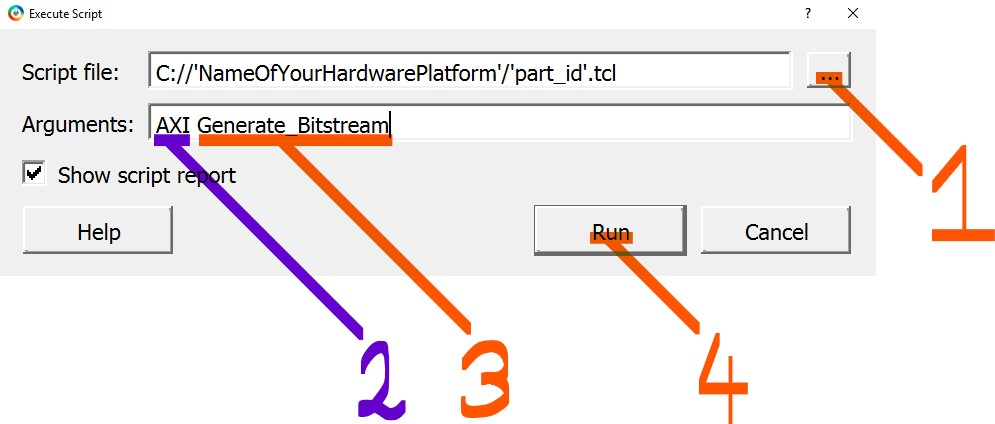
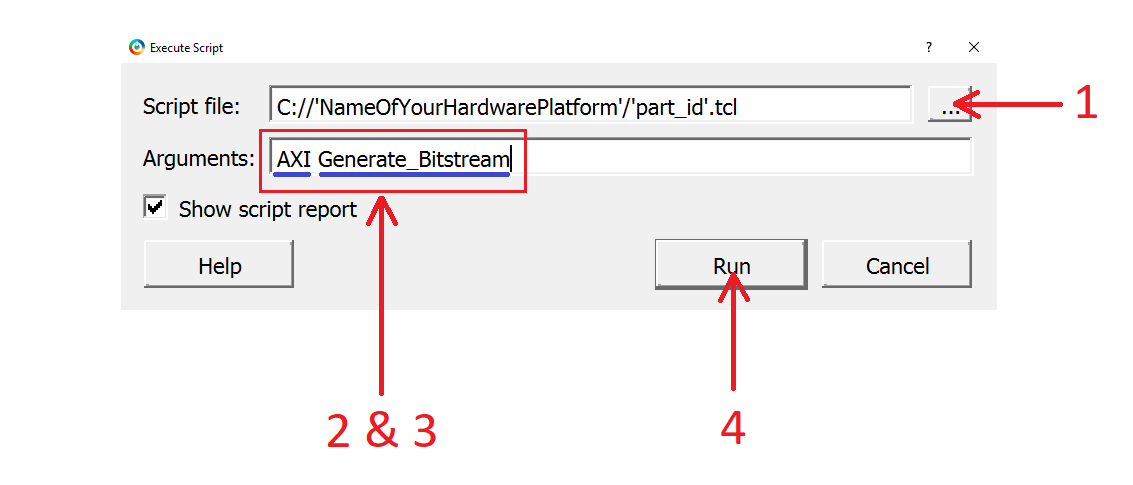
updating to AXI3

diff --git a/README.md b/README.md
@@ -5,19 +5,19 @@ Sample Mi-V Libero project for PolarFire FPGA designs for Future Avalanche Board
 To get your design download or clone this repository. The files consist of .tcl script files that are to be executed in Libero to build the design, the import folder contatining supporting files for building and the programming file which can be used to directly program hardware. Follow the instructions below to build your design in Libero, alternatively program your target device using the default programming files provided. They are found in the FlashPro Express Project's folder, instructions on programming are also listed below.
 
 **Note**: 
-* Unpack repository files to a file path not longer than 50 characters, as the project requires
+* Unpack repository files to your main Microsemi folder e.g. C:\Microsemi\ to keep the file path short, as the project requires
 a lengthy file path and some OS systems have limits. **Not providing
 a sufficient file path for the project will result in errors**.
-* When a script is executed it **Downloads the Latest Available Cores** for Libero to ensure it has an accessible library of components
-to build from. If you're Libero's vault hasn't been updated in a while it could take some time.
+* Make sure you have the latest Libero Cores in your vault. Select Catalog tab from the left hand side toolbar and check if the "Download Latest Cores" option is available by a yellow marked area then click it. This option will only be visible if you don't have the lates cores in the vault. If the vault hasn't been updated in a while this could take some time. Not having the library of cores required for the design to be built will cause errors.
+
 
 ### Instructions for Building the Design
 -------------
 
-- Launch Libero v12.1 on your computer. Wait for Libero to start.
+- Launch Libero v12.1 on your computer. Wait for Libero to start, make sure you have the latest Libero cores downloaded.
 - Examine the part on your hardware board, and try to match it with the right .tcl file.
 - In Libero Press "CTRL+U" to display the "Execute Script" menu. Alternatively, click Project from the top left hand corner of Libero Suite and select "Execute Script" from there.
-- Examine the image below, the purpose of the marked fields is listed.
+- Follow the instructions below and refer to the images to build the design.
 
 
 #### Simple Build
@@ -75,8 +75,8 @@ Please note that you only need to install this standalone version of FlashPro Ex
 -------------------------
 
 - The project is built in the same folder as the script.
+- Once a project is built, to re-run the script for that design again it has to be open.
 - If you stop the execution of a the script halfway the project can get corrupted. If this happens, delete the project folder created by Libero and execute the script again, otherwise just try running the script again.
-- The arguments serve the purpose to take the user further down the design flow, they use the most optimal settings for design build.
+- The design flow arguments serve the purpose to take the user further down the design flow, they use the most optimal settings for design build.
 - Use the argument "Place_and_Route" or any argument after; The design will be built using an optimal place and route seed so, that the design's signal data path doesn't cause timing violations.
-- If you don't feel like building a design to program the board, you can find the exported bitstream files in the project's folder.
-- Only one argument can be entered and no spaces are allowed. The arguments are not case sensitive, if no argument is entered the sample design will be fully built to pre-synthesis stage.
+- If you don't feel like building a design to program the board, you can find the exported programming files in FlashPro_Express_Project folder.
